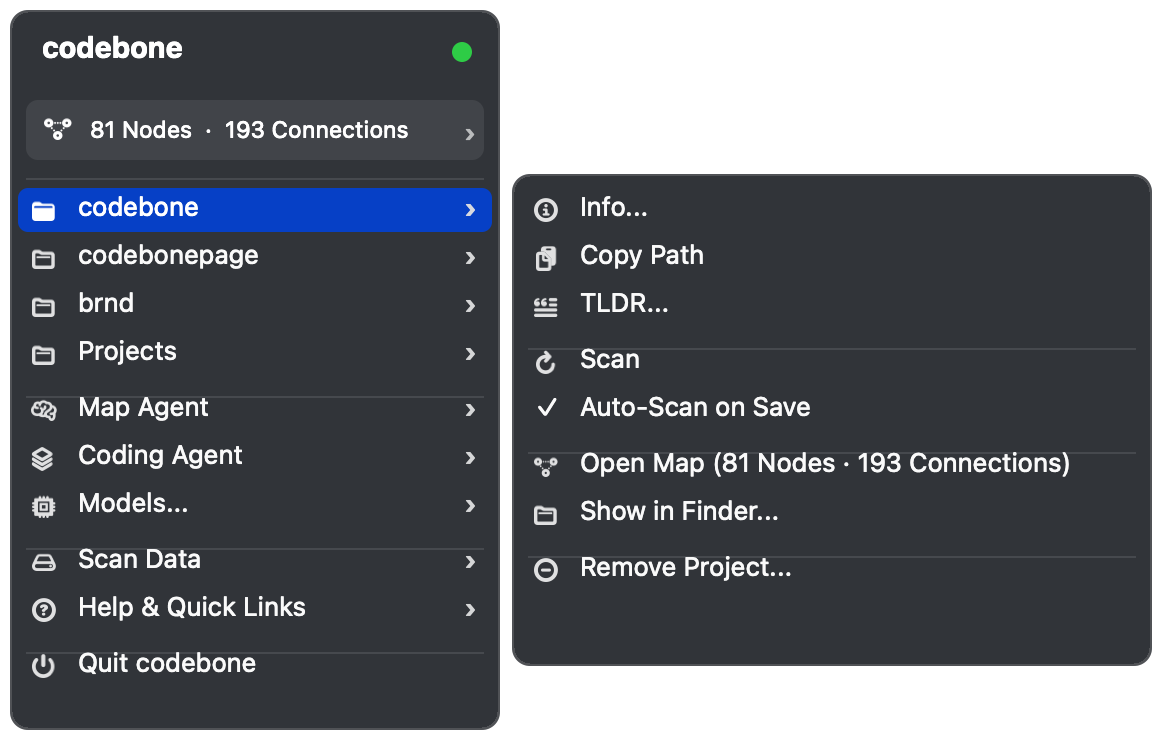
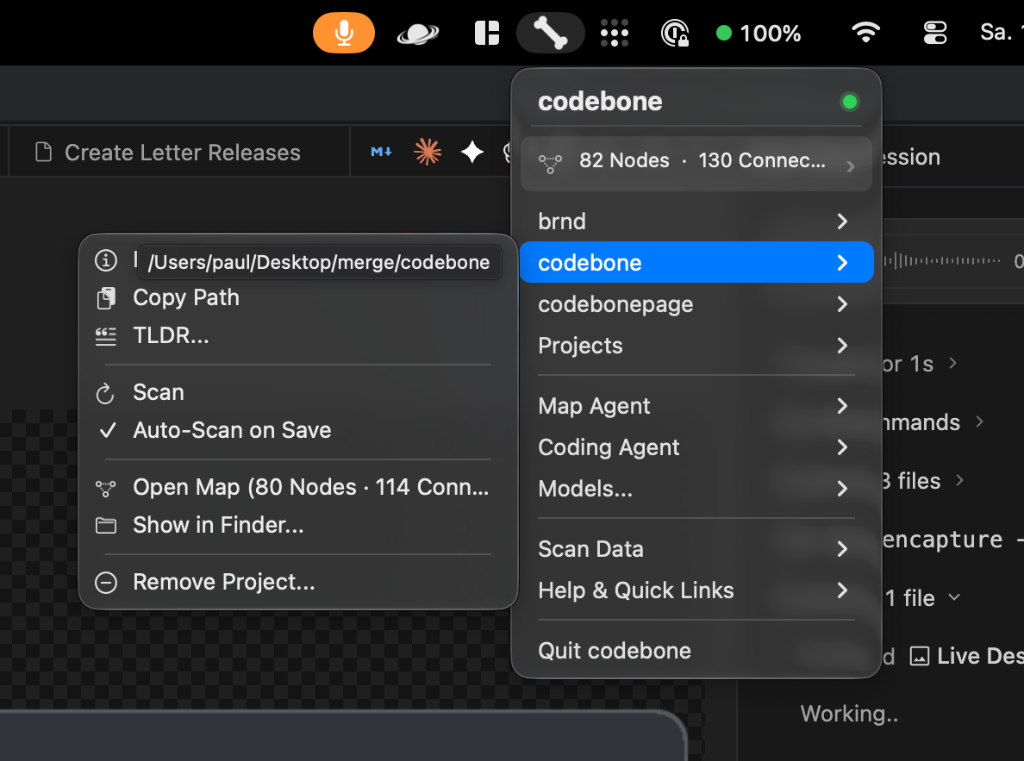
fix: use authentic codebone screenshots, realistic token benchmark (~80%) and sync docs

diff --git a/README.md b/README.md
@@ -26,7 +26,7 @@
 AI assistants typically read 10–20 files just to understand your architecture — burning thousands of tokens on boilerplate before writing a single line of code.
 
 <p align="center">
-  <img src="resources/token-savings.svg" width="600" alt="Token overhead: Raw File Dump ~25k tokens, Vector RAG ~14k tokens, codebone ~2k tokens (~92% reduction)">
+  <img src="resources/token-savings.svg" width="600" alt="Token overhead: Raw File Dump ~16k tokens, Vector RAG ~9.5k tokens, codebone ~3.2k tokens (~80% reduction)">
 </p>
 
 <p align="center">
